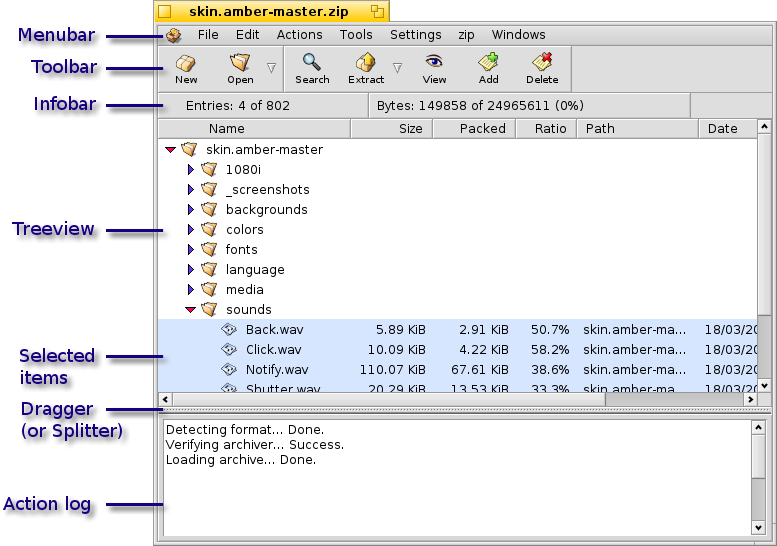
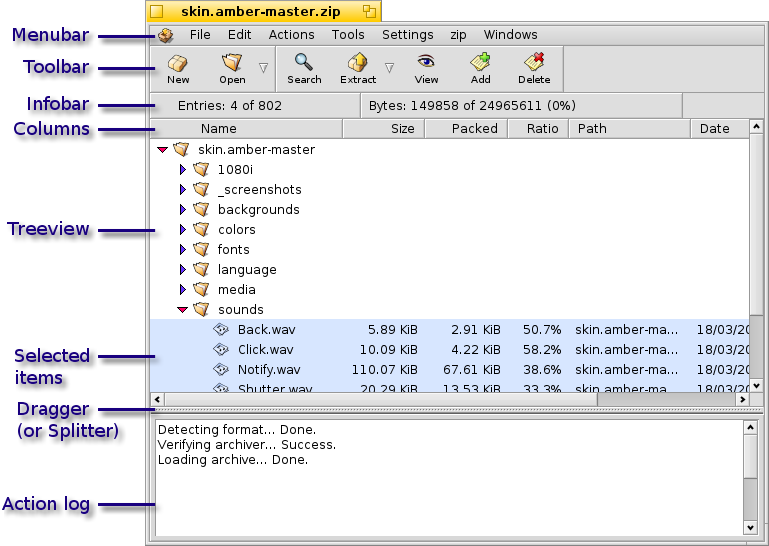
Correcting errors in recent documentation update
* Small text changes
* Add "Columns" label where I forgot it before

Thanks, Teknomancer for prove-reading!

diff --git a/Source/Beezer/docs/Installation.html b/Source/Beezer/docs/Installation.html
@@ -21,7 +21,7 @@
 
 <A NAME="dragdrop"></A>
 <P>Beezer is distributed as a <I><FONT FACE=Helvetica COLOR=#991122>HPKG</FONT></I> package. You install it like any other software listed in the HaikuDepot application. That is, find its entry in the list of packages and click the "Install" button. Uninstalling is just as easy, just find it in HaikuDepot and click the "Uninstall" button.</P>
-<P>Should you have downloaded the package from some other website, doubleclicking the file will launch it in HaikuDepot and the installation works as described above.</P>
+<P>Should you have downloaded the package from some other website, double-clicking the file will launch it in HaikuDepot and the installation works as described above.</P>
 
 </BLOCKQUOTE>
 <TABLE WIDTH=100% CELLPADDING="3" BORDER="0" BGCOLOR=#ebebeb>

diff --git a/Source/Beezer/docs/Introduction.html b/Source/Beezer/docs/Introduction.html
@@ -17,7 +17,7 @@
 
 <BLOCKQUOTE>
 
-<P>Thank you for using out Beezer!</P>
+<P>Thank you for using Beezer!</P>
 
 <P>This introduction section is for you newbies or the type who actually read documentation before trying out the app.</P>
 
